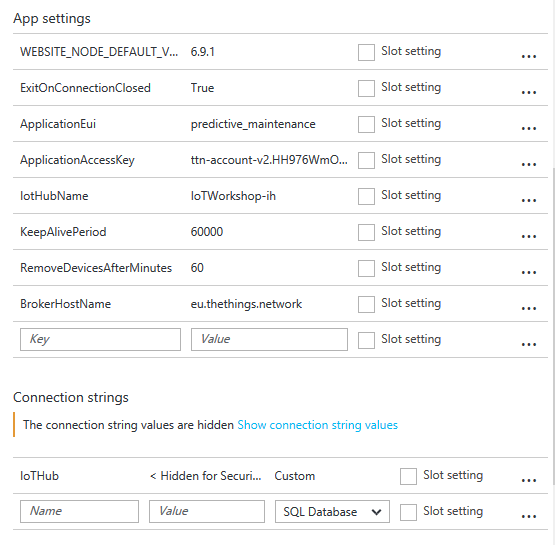
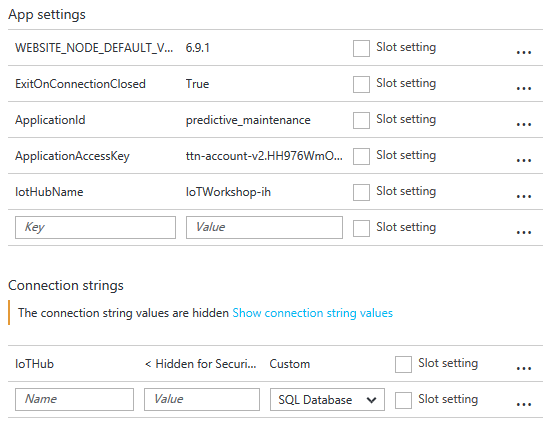
Updated bridge settings

diff --git a/Webjob.md b/Webjob.md
@@ -65,74 +65,73 @@ Follow these steps to deploy a console app as Azure WebJob that runs the integra
 
     ![alt tag](img/webjob/webapp-created.png)
 
-11. Select `Create`
-12. Creating a Web App will take some time, but we want to complete this step
-13. So navigate back to the resource group (repeat step 1, 2 and 3) and meanwhile check the Web app creation in the resource group
-14. If the Web App becomes listed, select `IoTWorkshop-wa`. Otherwise, 'refresh' the list a few times
+17. Select `Create`
+18. Creating a Web App will take some time, but we want to complete this step
+19. So navigate back to the resource group (repeat step 1, 2 and 3) and meanwhile check the Web app creation in the resource group
+20. If the Web App becomes listed, select `IoTWorkshop-wa`. Otherwise, 'refresh' the list a few times
 
     ![alt tag](img/azure-portal-refresh.png)
 
-15. You are now in the Web App blade. It should be shown like this, with all information available (otherwise, refresh a few times):
+21. You are now in the Web App blade. It should be shown like this, with all information available (otherwise, refresh a few times):
 
     ![alt tag](img/webjob/webapp-pane.png)
 
-16. A Web App has dozens of settings. Filter the settings for `webjobs`
+22. A Web App has dozens of settings. Filter the settings for `webjobs`
 
     ![alt tag](img/webjob/webapp-pane-filter.png)
 
-17. Select `WebJobs`. An empty list is presented
-18. Select `Add`
+23. Select `WebJobs`. An empty list is presented
+24. Select `Add`
 
     ![alt tag](img/azure-portal-add.png)
 
-19. Enter a unique Web App name eg. `TTNAzureBridge`. A green sign will be shown if the name is unique
-20. Select your bridge ZIP file (eg. 'TTNAzureBridge.zip') as file to upload
-21. Ensure that the type is set to `Continuous`
-22. Set the scale to `Single Instance`
+25. Enter a unique Web App name eg. `TTNAzureBridge`. A green sign will be shown if the name is unique
+26. Select your bridge ZIP file (eg. 'TTNAzureBridge.zip') as file to upload
+27. Ensure that the type is set to `Continuous`
+28. Set the scale to `Single Instance`
 
     ![alt tag](img/webjob/azure-web-job-add.png)
 
-23. Select `Ok`
-24. The Web Job will be created. And it is listed on the page of the Web App
+29. Select `Ok`
+30. The Web Job will be created. And it is listed on the page of the Web App
 
     ![alt tag](img/webjob/azure-web-job-starting.png)
 
-24. But actually, this job is not ready to run yet. We need to add settings
+31. But actually, this job is not ready to run yet. We need to add settings
 32. `Clear` the settings filter. 
 33. Select `Application settings`
 34. The Application settings pane is shown. `Scroll down` until both the App Settings and Connection Strings are shown
 
     ![alt tag](img/webjob/azure-web-job-app-settings.png)
 
-11. We will enter the actual settings here. These will override the settings in the config file of the bridge *Note: this is a great feature for administrators*
-11. Add for each app setting the name and value
-    37. "BrokerHostName" (value 'eu.thethings.network')
-    37. ApplicationEui
-    37. ApplicationAccessKey
-    37. IotHubName
-11. If in an unforeseen event that the connection to the TTN is lost, we let the Web App restart the web job. Add this extra setting and give it the value `True` 
-    38. ExitOnConnectionClosed (value 'True')  
-11. We also have to add the connection string. Fill in both the name, connection string. Finally, set the kind to `Custom`
-    39. IoTHub (value kind 'Custom')
+35. We will enter the actual settings here. These will override the settings in the config file of the bridge *Note: this is a great feature for administrators*
+36. Add for each app setting the name and value
+    1. ApplicationId
+    2. ApplicationAccessKey
+    2. IotHubName
+37. If in an unforeseen event that the connection to the TTN is lost, we let the Web App restart the web job. Add this extra setting and give it the value `True` 
+    1. ExitOnConnectionClosed (value 'True')  
+38. We also have to add the connection string. Fill in both the name, connection string. Finally, set the kind to `Custom`
+    1. IoTHub (value kind 'Custom')
 39. The settings are now ready and should look like this
 
     ![alt tag](img/webjob/azure-web-job-app-settings-ready.png)
 
-39. Press `Save`. A notification will be shown that the web app settings are updated successfully
+40. Press `Save`. A notification will be shown that the web app settings are updated successfully
 
     ![alt tag](img/azure-portal-save.png)
 
-32. Let's check the state of the Web Job. 
-38. Filter the settings for `webjobs`. the bridge should have the state 'Running' by now.
-39. Select the bridge and `Logs` of your Webjob
+41. Let's check the state of the Web Job. 
+42. Filter the settings for `webjobs`. the bridge should have the state 'Running' by now.
+43. Select the bridge and `Logs` of your Webjob
 
     ![alt tag](img/bridge-list-web-job-logs.png)
 
-25. A new page is shown, here the status of the Web Job is shown. The status is 'Running'
+44. A new page is shown, here the status of the Web Job is shown. The status is 'Running'
 
     ![alt tag](img/webjob/webapp-job-running.png)
 
-26. Go to the Detail logging, by selecting `the link` of the Web Job details. The TTN messages are handled 
+45. Go to the Detail logging, by selecting `the link` of the Web Job details. The TTN messages are handled 
 
     ![alt tag](img/webjob/webapp-job-logging.png)
 
